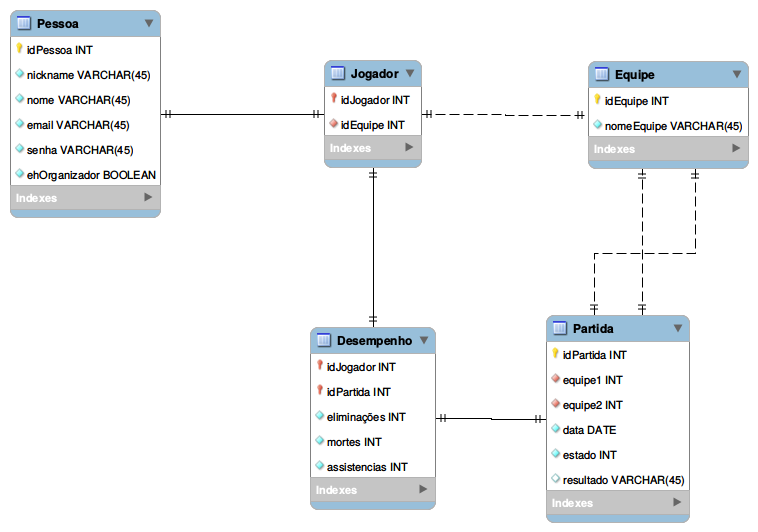
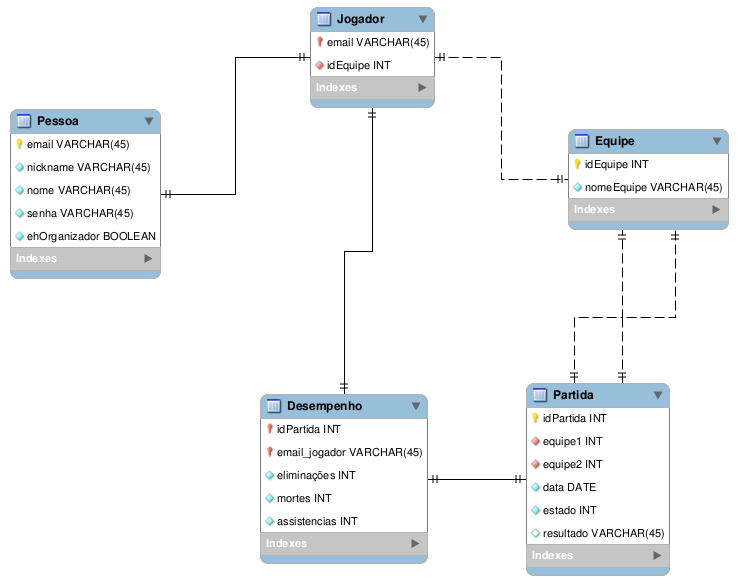
Tela de cadastro funcionando e salvando no BD.

diff --git a/persistence/jogadorDAO.php b/persistence/jogadorDAO.php
@@ -1,26 +1,36 @@
 <?php
   class JogadorDAO{
     function cadastrarJogador($jogador, $link){
-      $SQL = "INSERT INTO Pessoa VALUES (0,
-                                          '$jogador->getNickname()',
-                                          '$jogador->getNome()',
-                                          '$jogador->getEmail()',
-                                          '$jogador->getSenha()',
-                                          0);";
+      $SQL = "INSERT INTO Jogador VALUES ('".$jogador->getEmail()."',
+                                          '".$jogador->getIdEquipe()."',
+                                          '".$jogador->getNickname()."',
+                                          '".$jogador->getNome()."',
+                                          '".$jogador->getSenha()."');";
 
-  		if (!mysqli_query($link, $SQL)) {
+      echo $SQL."<br />";
+      if (!mysqli_query($link, $SQL)) {
   			die("Erro na inserção de pessoa");
   		}
 
-
-      $SQL = "INSERT INTO pessoas VALUES (0,
-                                          '$jogador->getNickname()',
-                                          '$jogador->getNome()',
-                                          '$jogador->getEmail()',
-                                          '$jogador->getSenha()',
-                                          0);";
-
     }
+
+    function consultarJogadorPorEmail($email, $link){
+
+      $SQL = "SELECT * FROM Jogador WHERE email ='$email';";
+
+      $retorno = mysqli_query($link, $SQL);
+      if(!$retorno){
+        die("Erro na consulta de cliente");
+      }
+      if(mysqli_num_rows($retorno) > 0){
+        $ret = $retorno->fetch_all();
+        $resultado = new Pessoa($ret[0],$ret[1],$ret[2],$ret[3]);
+        return $resultado;
+      }
+      return null;
+    }
+
+
   }
 
 

diff --git a/model/jogador.php b/model/jogador.php
@@ -1,19 +1,38 @@
 <?php
-  require_once("pessoa.php");
-
-  class Jogador extends Pessoa{
+  class Jogador{
+    private $nickname;
+    private $nome;
+    private $email;
+    private $senha;
     private $idEquipe;
 
-    function __construct($nickname, $nome, $email, $senha, $ehOrganizador, $idEquipe){
-      parent::__construct($nickname, $nome, $email, $senha, $ehOrganizador);
+    function __construct($nickname, $nome, $email, $senha, $idEquipe){
+      $this->nickname = $nickname;
+      $this->nome = $nome;
+      $this->email = $email;
+      $this->senha = $senha;
       $this->idEquipe = $idEquipe;
+    }
+
+    public function getNickname(){
+      return $this->nickname;
+    }
+
+    public function getNome(){
+      return $this->nome;
+    }
+
+    public function getEmail(){
+      return $this->email;
+    }
+
+    public function getSenha(){
+      return $this->senha;
     }
 
     public function getIdEquipe(){
       return $this->idEquipe;
     }
-
-
   }
 
 ?>

diff --git a/control/cadastrarJogador.php b/control/cadastrarJogador.php
@@ -1,7 +1,24 @@
 <?php
 
-require_once '../model/jogador.php';
+  require_once ('../model/jogador.php');
+  require_once ('../persistence/jogadorDAO.php');
+  require_once ('../persistence/conexao.php');
 
-echo key($_POST);
+  $nome = $_POST["nome"];
+  $email = $_POST["email"];
+  $nick = $_POST["nick"];
+  $equipe = $_POST["equipe"];
+  $senha = $_POST["pass"];
+
+  $jogador = new Jogador($nick, $nome, $email, $senha, $equipe);
+
+  $conexao = new Conexao();
+
+  $jogadorDAO = new JogadorDAO();
+
+  $jogadorDAO->cadastrarJogador($jogador, $conexao->getLink());
+
+  echo "<script type='text/javascript'>alert('Jogador cadastrado com sucesso.')</script>";
+  header('Location: ../view/');
 
 ?>

diff --git a/persistence/pessoaDAO.php b/persistence/pessoaDAO.php
@@ -11,7 +11,7 @@
 
   		if (!mysqli_query($link, $SQL)) {
   			die("Erro na inserção de cliente");
-  		}
+  		} 
     }
 
     function consultarPessoaPorEmail($email, $link){
